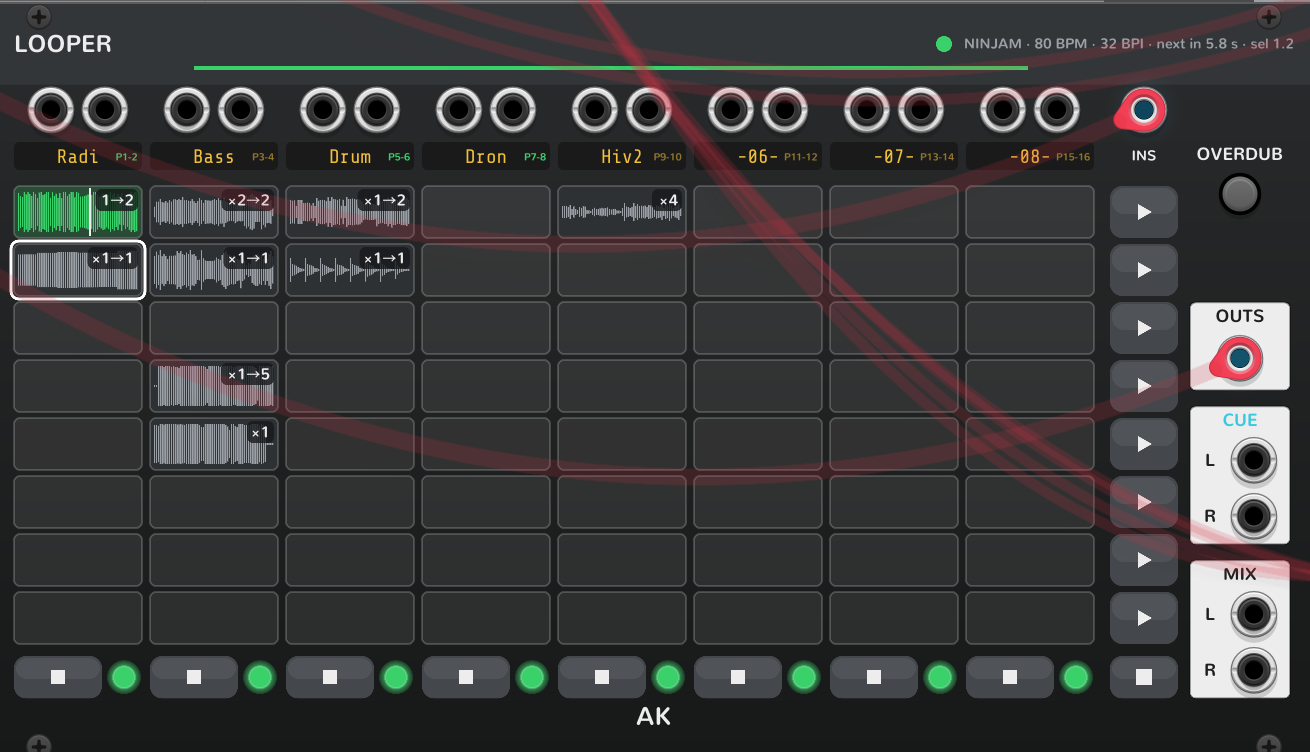
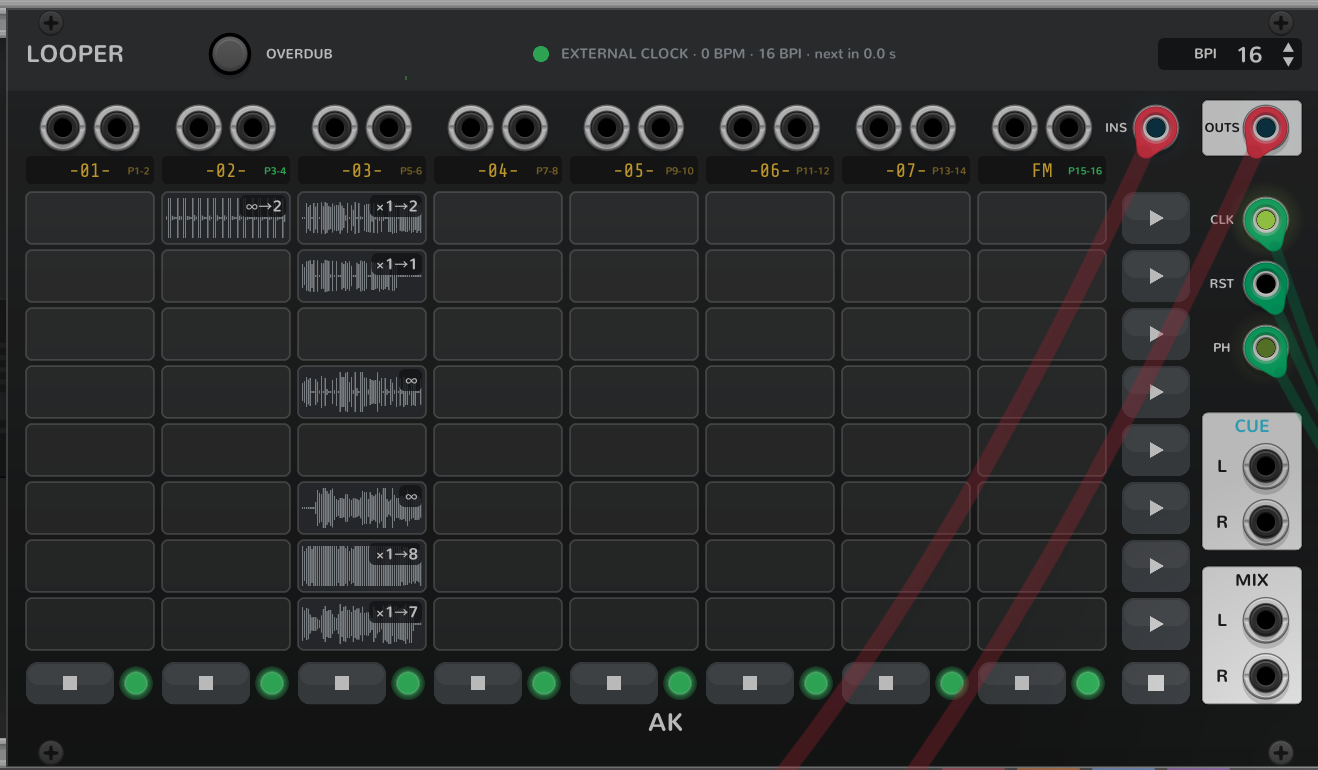
Looper: BPI sets the beat grid + selectable launch/record quantize
Fixes the external clock's granularity (GitHub #3 field report) and makes it
tunable:

- Pulse mode now subdivides the interval into BPI even beats (like Ninjam and
  PHASE) instead of treating each CLOCK edge as a beat. So BPI — not the clock
  rate — sets how many launch/record points you get per interval: clock CLK at
  any rate (even one pulse per loop, with RESET marking the interval) and still
  get BPI beats.
- New context-menu "Launch / record quantize": Beat / 2 / 4 / 8 / 16 beats /
  Interval. The engine gates commits to the chosen grid (onCommitGrid) and the
  pre-roll pickup aims at the next commit beat (framesToNextCommit). Applies to
  any clock; default Beat preserves the historical per-beat behaviour. Persisted.
- test/extclock_test.cpp: assert a fast CLK + RESET yields exactly BPI beats per
  interval.
- Docs: README + MANUAL get the standalone-clock + quantize description and the
  Recorder-next-to-a-Looper note; Looper-session.png refreshed to the new layout.

Claude-Session: https://claude.ai/code/session_01QteeJe4UgciA2fKjfB2YAN

diff --git a/src/looper/LooperEngine.cpp b/src/looper/LooperEngine.cpp
@@ -464,6 +464,32 @@ int LooperEngine::framesToNextBeat(const ClockFrame& c) {
 	return next - c.frameInInterval;
 }
 
+// Launch/record quantize. Step in beats, clamped to [1, bpi]; 0 (interval) → bpi, i.e. only
+// the downbeat (beatIndex 0) is on the grid.
+int LooperEngine::gridStep(const ClockFrame& c) const {
+	int bpi = c.bpi > 0 ? c.bpi : 1;
+	int q = launchQuantize.load(std::memory_order_relaxed);
+	if (q <= 0 || q > bpi) return bpi;
+	return q;
+}
+// This beat is a commit point when its index is a multiple of the step (the downbeat, index
+// 0, always is). A beat-less clock (sim) has only the downbeat anyway.
+bool LooperEngine::onCommitGrid(const ClockFrame& c) const {
+	if (c.bpi <= 1) return true;
+	return c.beatIndex % gridStep(c) == 0;
+}
+// Frames to the start of the next commit beat — the pre-roll writer aims here so a coarse
+// quantize folds the pickup against the actual commit point, not the next raw beat.
+int LooperEngine::framesToNextCommit(const ClockFrame& c) const {
+	const int n = c.intervalFrames;
+	if (n <= 0) return 0;
+	if (c.bpi <= 1) return n - c.frameInInterval;
+	const int q = gridStep(c);
+	const int nb = (c.beatIndex / q + 1) * q; // next multiple of q strictly after this beat
+	const int next = nb >= c.bpi ? n : (int) (((long long) nb * n + c.bpi - 1) / c.bpi);
+	return next - c.frameInInterval;
+}
+
 // Beat boundary (incl. the downbeat): the ACTION grid. Commit pending LAUNCH / STOP,
 // start pending recordings, and commit pending FINISHes.
 void LooperEngine::beatCommit(const ClockFrame& c, double now) {
@@ -769,8 +795,8 @@ void LooperEngine::tick(const ClockFrame& c, const TrackIn* in, int nTracks, dou
 	if (c.running && c.intervalFrames > 0) {
 		if (!haveGrid || c.gridGeneration != gen || c.intervalFrames != N || c.sampleRate != sr)
 			regrid(c);
-		if (c.beat)
-			beatCommit(c, now); // the action grid: launches, stops, record start/finish
+		if (c.beat && onCommitGrid(c))
+			beatCommit(c, now); // the action grid: launches, stops, record start/finish (quantized)
 		if (c.downbeat)
 			boundary(now); // rest cells count their repeats per interval
 	}
@@ -779,7 +805,7 @@ void LooperEngine::tick(const ClockFrame& c, const TrackIn* in, int nTracks, dou
 	const bool inGrid = grid && f >= 0 && f < N;
 
 	const bool declick = declickEnabled.load(std::memory_order_relaxed) && declickN > 0;
-	int remToBeat = -1; // framesToNextBeat(c), computed once on demand (tick-invariant)
+	int remToBeat = -1; // framesToNextCommit(c), computed once on demand (tick-invariant)
 
 	float mixL = 0.f, mixR = 0.f, cuL = 0.f, cuR = 0.f;
 	for (int t = 0; t < MAX_TRACKS; t++) {
@@ -825,7 +851,7 @@ void LooperEngine::tick(const ClockFrame& c, const TrackIn* in, int nTracks, dou
 					// N - (frames remaining to the start beat) — faded in so the fold
 					// can't click at its left edge.
 					if (remToBeat < 0)
-						remToBeat = framesToNextBeat(c);
+						remToBeat = framesToNextCommit(c);
 					const int rem = remToBeat;
 					if (rem >= 1 && rem <= N) {
 						const int pos = N - rem;

diff --git a/src/Looper.cpp b/src/Looper.cpp
@@ -49,6 +49,16 @@ static const std::vector<std::string>& decayLabels() {
 const int SIM_SECONDS[] = {2, 4, 8, 16, 32};
 const int N_SIM_SECONDS = 5;
 
+// Launch/record quantize choices: beats per commit step (0 = interval = downbeat only),
+// with matching menu labels. Clamped to the live bpi at use (engine.gridStep).
+const int QUANT_BEATS[] = {1, 2, 4, 8, 16, 0};
+const int N_QUANT = 6;
+inline int quantIndex(int q) {
+	for (int i = 0; i < N_QUANT; i++)
+		if (QUANT_BEATS[i] == q) return i;
+	return 0; // default: Beat
+}
+
 inline NVGcolor lpText()    { return akTheme(nvgRGB(0x24, 0x27, 0x2b), nvgRGB(0xed, 0xed, 0xed)); }
 inline NVGcolor lpTextDim() { return akTheme(nvgRGB(0x5c, 0x61, 0x68), nvgRGB(0x9a, 0xa0, 0xa6)); }
 inline NVGcolor lpGreen()   { return akTheme(nvgRGB(0x2a, 0xa8, 0x55), nvgRGB(0x3a, 0xd0, 0x6a)); }
@@ -840,6 +850,7 @@ struct Looper : Module, public akaudio::LooperRecLink {
 		json_object_set_new(root, "defRepeats", json_integer(engine.defRepeats.load()));
 		json_object_set_new(root, "defDecayDb", json_real(engine.defDecayDb.load()));
 		json_object_set_new(root, "autoAdvance", json_boolean(engine.autoAdvance.load()));
+		json_object_set_new(root, "launchQuantize", json_integer(engine.launchQuantize.load()));
 		json_t* names = json_array();
 		for (int t = 0; t < TRACKS; t++)
 			json_array_append_new(names, json_string(trackNames[t].c_str()));
@@ -868,6 +879,8 @@ struct Looper : Module, public akaudio::LooperRecLink {
 		if (j) engine.defDecayDb.store((float) json_number_value(j));
 		j = json_object_get(root, "autoAdvance");
 		if (json_is_boolean(j)) engine.autoAdvance.store(json_boolean_value(j));
+		j = json_object_get(root, "launchQuantize");
+		if (j) engine.launchQuantize.store((int) json_integer_value(j));
 		// ("repitch" from older patches is deliberately ignored: tempo conversion was
 		// removed 2026-08-29 — takes free-run at their recorded speed.)
 		j = json_object_get(root, "trackNames");
@@ -1658,6 +1671,12 @@ struct LooperWidget : ModuleWidget {
 		menu->addChild(createIndexSubmenuItem("Simulated interval (no Ninjam / clock patched)", {"2 s", "4 s", "8 s", "16 s", "32 s"},
 			[m]() { return (size_t) m->simSecondsIdx.load(std::memory_order_relaxed); },
 			[m](size_t i) { m->simSecondsIdx.store((int) i, std::memory_order_relaxed); }));
+		// How finely launch/record commit on the action grid: every beat (finest) … the whole
+		// interval (coarsest). Applies to any clock; the beat count is BPI subdivisions.
+		menu->addChild(createIndexSubmenuItem("Launch / record quantize",
+			{"Beat", "2 beats", "4 beats", "8 beats", "16 beats", "Interval"},
+			[m]() { return (size_t) quantIndex(m->engine.launchQuantize.load(std::memory_order_relaxed)); },
+			[m](size_t i) { m->engine.launchQuantize.store(QUANT_BEATS[i], std::memory_order_relaxed); }));
 		menu->addChild(createIndexSubmenuItem("New clips: repeats",
 			repeatLabels(),
 			[m]() { return (size_t) repeatsIndex(m->engine.defRepeats.load(std::memory_order_relaxed)); },

diff --git a/test/extclock_test.cpp b/test/extclock_test.cpp
@@ -108,6 +108,33 @@ static void testPulseNoReset() {
 	CHECK(measuredPeriod == bpi * B, "pulse: downbeat period == one interval");
 }
 
+// --- Pulse mode subdivides the interval into BPI beats, so the action grid is set by BPI,
+// NOT the clock rate: a fast CLOCK with RESET marking the loop still yields exactly bpi beats
+// per interval (like Ninjam), not one per CLOCK edge. ---
+static void testPulseSubdivides() {
+	ExtClock ec;
+	ec.onActivate(4, SR);
+	const int B = 100, R = 2000, bpi = 4; // 20 CLOCK edges per RESET interval
+	int beatsThisInterval = 0, maxBeatIdx = -1;
+	int measured = -1; // beats counted in one fully-warmed interval
+	int lastDbK = -1;
+	for (int k = 0; k <= 8 * R; k++) {
+		float clk = (k % B == 0) ? 5.f : 0.f;
+		float rst = (k % R == 0) ? 5.f : 0.f;
+		ClockFrame c{};
+		ec.tick(false, 0.f, true, clk, true, rst, bpi, SR, c);
+		if (!c.running) continue;
+		if (c.downbeat) {
+			if (lastDbK >= 0 && measured < 0 && k >= 4 * R) measured = beatsThisInterval;
+			beatsThisInterval = 0;
+			lastDbK = k;
+		}
+		if (c.beat) { beatsThisInterval++; if (c.beatIndex > maxBeatIdx) maxBeatIdx = c.beatIndex; }
+	}
+	CHECK(measured == bpi, "pulse subdivide: exactly BPI beats per interval, not one per CLOCK edge");
+	CHECK(maxBeatIdx == bpi - 1, "pulse subdivide: beatIndex spans 0..bpi-1");
+}
+
 // --- CLOCK wins over PHASE: when BOTH are patched, the pulse path drives (a stray/held
 // PHASE signal must not hijack a working CLOCK+RESET rig and freeze it). ---
 static void testClockBeatsPhase() {
@@ -235,6 +262,7 @@ int main() {
 	testPhaseFreeze();
 	testPulseNoReset();
 	testPulseWithReset();
+	testPulseSubdivides();
 	testClockBeatsPhase();
 	testNStability();
 	testGenDiscipline();

diff --git a/src/looper/LooperEngine.hpp b/src/looper/LooperEngine.hpp
@@ -327,6 +327,10 @@ public:
 	// escape hatch for never-silent sources (drones/pads), where the chain would
 	// otherwise eat the whole column.
 	std::atomic<bool> autoAdvance{true};
+	// Launch/record quantize: beats per commit step on the action grid (1 = every beat, the
+	// finest; 0 = interval, i.e. the downbeat only). Clamped to [1, bpi] at use. Default 1
+	// keeps the historical "commit on every beat" behaviour (Ninjam, the tests).
+	std::atomic<int> launchQuantize{1};
 	std::atomic<int> intervalFrames{0};  // current N (UI)
 	std::atomic<long> allocations{0};    // buffers allocated by the worker (diagnostics/test)
 
@@ -344,6 +348,12 @@ private:
 	void commitCapture(int t, int s, bool finishing, const ClockFrame& c, double now);
 	// Frames from c's frame to the start of the next beat (N - frame when beat-less).
 	static int framesToNextBeat(const ClockFrame& c);
+	// Launch/record quantize (reads launchQuantize): the effective step in beats clamped to
+	// [1, bpi]; whether this beat is on the commit grid; and frames to the next commit beat
+	// (the pre-roll aims there, not merely at the next beat).
+	int gridStep(const ClockFrame& c) const;
+	bool onCommitGrid(const ClockFrame& c) const;
+	int framesToNextCommit(const ClockFrame& c) const;
 	void drainReplies();
 	void drainIntents();
 	void requestSpare(int t);

diff --git a/src/looper/ExtClock.hpp b/src/looper/ExtClock.hpp
@@ -261,8 +261,14 @@ private:
 		if (fi >= N) fi = N - 1; // clock slower than N implies: hold at the boundary
 		if (fi < 0) fi = 0;
 		frameInInterval = fi;
-		beatIndex = pulseBeat;
+		// The action grid is BPI even subdivisions of the interval (like Ninjam and PHASE) —
+		// NOT the raw CLOCK-edge count. So BPI, not the clock rate, sets the beat granularity:
+		// clock CLK at any rate (even one pulse per interval, with RESET marking the loop) and
+		// still get BPI launch/record points per interval. `pulseBeat` only locates the
+		// downbeat in the no-RESET case now.
+		beatIndex = (int) ((long long) fi * bpi / N);
 		if (beatIndex >= bpi) beatIndex = bpi - 1;
+		if (beatIndex < 0) beatIndex = 0;
 		return true;
 	}
 };

diff --git a/docs/MANUAL.md b/docs/MANUAL.md
@@ -98,8 +98,10 @@ a shared `.vcv` leaks nothing (see [Privacy](../README.md#privacy)).
 ## Looper
 
 An 8×8 grid of loops — Ableton Session view for a NINJAM jam. Put it right next to a
-**Ninjam** module (either side) and it locks onto the room's grid; on its own it runs
-on a simulated clock (interval length in the context menu).
+**Ninjam** module (either side) and it locks onto the room's grid; **standalone**,
+drive it from any clock through its **CLOCK / RESET / PHASE** inputs (see
+[Standalone clock](#standalone-clock)); with nothing patched it free-runs on a
+simulated clock (interval length in the context menu).
 
 Two things to know, and the rest follows:
 
@@ -109,7 +111,7 @@ Two things to know, and the rest follows:
 - **Loops run free.** A launched loop cycles at its own recorded length and speed,
   wherever the grid goes afterwards.
 
-![A Looper session mid-jam: named tracks, chained takes, one cell playing, the NINJAM clock at 80 BPM · 32 BPI](images/Looper-session.png)
+![A Looper running standalone: chained takes across tracks, the CLK / RST / PH clock inputs patched, EXTERNAL CLOCK at 16 BPI](images/Looper-session.png)
 
 ### Panel
 
@@ -117,6 +119,8 @@ Two things to know, and the rest follows:
 |---|---|
 | **INS** (poly) | Your instruments: channels 1/2 = track 1 L/R, 3/4 = track 2, … Best fed from a mixer's poly **insert send** (see [With a mixer](#with-a-mixer)); direct-outs work too (a MindMeld MixMaster maps 1:1). |
 | Per-track jacks | Per-track stereo inputs, if you'd rather not use INS (a track prefers its own jacks when connected). |
+| **CLOCK / RESET / PHASE** | Standalone clock inputs — greyed out while a Ninjam drives the grid. See [Standalone clock](#standalone-clock). |
+| **BPI** | Beats per interval for the standalone clock (3–64) — the loop length. ▲/▼ or scroll; right-click to type a value. |
 | **Track label** | Click to rename (4 characters, like MixMaster). With a MixMaster feeding INS, names sync both ways automatically. |
 | **Grid cells** | Empty: press, and recording starts on the next **beat** (what you play just *before* it folds into the loop's tail — pickups survive). Filled: press to launch on the next beat; press again while playing to stop. Recording: press to **finish** — the take commits on the next beat, at however many beats it is, and starts looping (a chain replays from its first cell); press again to keep recording instead. The waveform fills in live while recording. |
 | **▶ scene** | Launch a whole row: filled cells play, empty cells stop their track. Latest scene press wins. |
@@ -124,6 +128,23 @@ Two things to know, and the rest follows:
 | **OVERDUB** | Latch: the selected playing cell keeps layering until you let go of the latch. |
 | **TX lamps** | Per-track on-air toggle: green = in the MIX (the room hears it), cyan = private — the live input goes to CUE instead. |
 | **OUTS / CUE / MIX** | Per-track poly out, private monitor out, and the stereo submix (cable MIX into Ninjam's IN to transmit it). |
+
+### Standalone clock
+
+No Ninjam? Drive the Looper from any clock:
+
+- **CLOCK + RESET.** CLOCK is the beat; **RESET** marks each interval's downbeat (the
+  loop start). Set how many beats make a loop with **BPI**. Clock CLOCK at whatever
+  rate suits you — *BPI, not the clock rate, decides how many launch/record points you
+  get per interval*, so one pulse per loop works as well as a fast beat clock.
+- **PHASE.** Instead of pulses, feed a 0–10 V ramp that rises once per interval
+  (ZZC-style) — it carries the position directly. PHASE is used only when CLOCK is
+  unpatched; if you patch both, CLOCK wins.
+- **Stop = hold.** If the external clock stops, the Looper freezes in place (playback
+  pauses) and resumes when it moves again. The header shows the live source —
+  `NINJAM` / `EXTERNAL CLOCK` / `SIMULATED` — with BPM, BPI and the countdown.
+- **Launch / record quantize** (context menu) sets how finely cells commit: every
+  beat (finest) through the whole interval. Applies to any clock.
 
 ### With a mixer
 
@@ -176,6 +197,13 @@ records.
 
 Nothing is ever written, and nothing of the room is captured, unless the Recorder
 sits armed next to a joined Ninjam — recording is always your explicit choice.
+
+**No Ninjam?** Park the Recorder next to a **Looper** instead. There are no remote
+players to archive, so arming **RECORD** rolls the Looper onto a fresh session folder
+and marks it; stopping exports that session as a `.als` (below). The panel shows the
+Looper session — take count and folder — instead of the per-player rows. The jams
+folder is shared, and the **Export Ableton Live set…** menu item works offline either
+way (it just reads a jam folder on disk).
 
 ### Ableton Live export
 

diff --git a/README.md b/README.md
@@ -39,10 +39,16 @@ chat, and a voice mode for talking between takes.
 
 ### Looper
 
-![A Looper session mid-jam: named tracks, chained takes, one cell playing, the NINJAM clock at 80 BPM · 32 BPI](docs/images/Looper-session.png)
+![A Looper running standalone: chained takes across tracks, the CLK / RST / PH clock inputs patched, EXTERNAL CLOCK at 16 BPI](docs/images/Looper-session.png)
 
-An 8×8 looper that runs on the jam's clock (it's a Ninjam expander; on its own it
-uses a simulated clock). Everything is quantized to the beat: press an empty cell and
+An 8×8 looper that runs on the jam's clock (it's a Ninjam expander) — or **standalone**
+off a plain clock: patch **CLOCK** (add **RESET** for the downbeat, or feed a ZZC-style
+**PHASE** ramp instead) and set the loop length with the **BPI** stepper. With nothing
+patched it free-runs on a simulated clock. Beats per interval come from BPI, not the
+clock rate, so any clock works; a right-click **Launch / record quantize** sets how
+finely cells commit (every beat … the whole interval).
+
+Everything is quantized to the beat: press an empty cell and
 recording starts on the next beat; press it again and the take ends there — any whole
 number of beats, up to one interval. Loops play back at whatever speed they were
 recorded at, and if the room changes tempo they just keep going — nothing gets
@@ -68,7 +74,10 @@ channels: the export needs tracks 7 and 8 for the bounced players and the TX mix
 
 Records the jam. It sits next to Ninjam and, while armed, writes every player's
 intervals (and your own transmitted mix) to disk as the raw OGG bytes — no
-re-encoding, nothing thrown away. When you stop recording, it builds an Ableton Live
+re-encoding, nothing thrown away. With no Ninjam it parks next to a **Looper** instead:
+arming rolls the Looper onto a fresh session folder, and stopping exports that session
+— so a standalone looper rig gets one-click capture and Ableton export too. When you
+stop recording, it builds an Ableton Live
 set out of the whole session: the looper grid as Session clips, what-played-when on
 each track's Arrangement lane, everyone's audio on the timeline, tempo set. A menu
 choice targets full Live (a track per player) or Live Lite (everything fitted into
